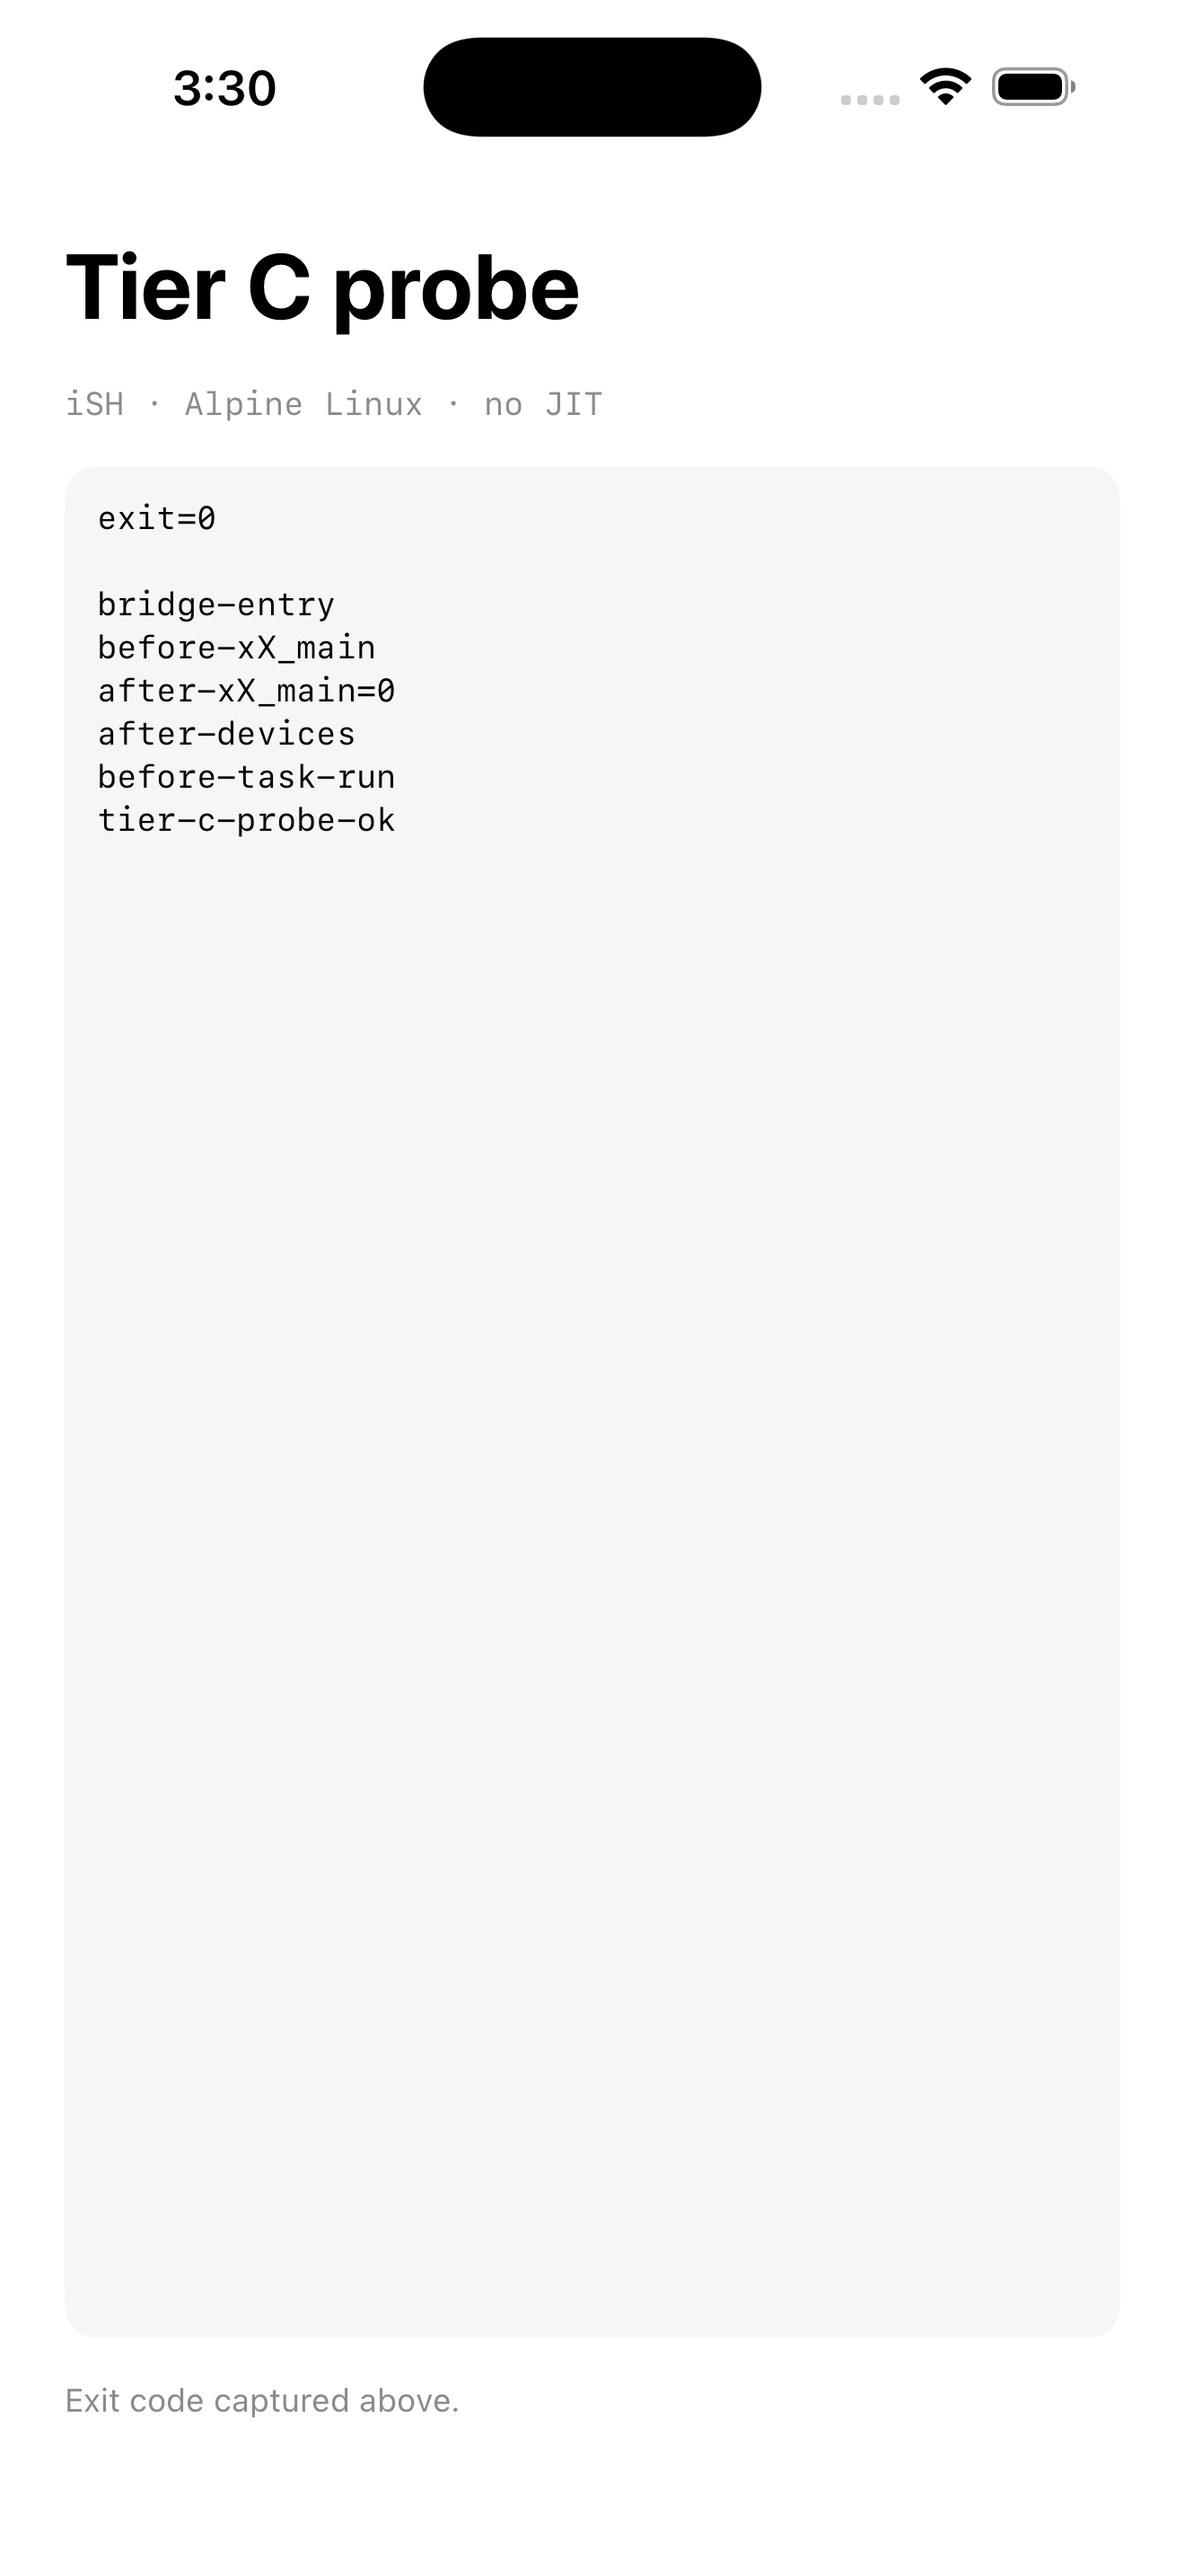
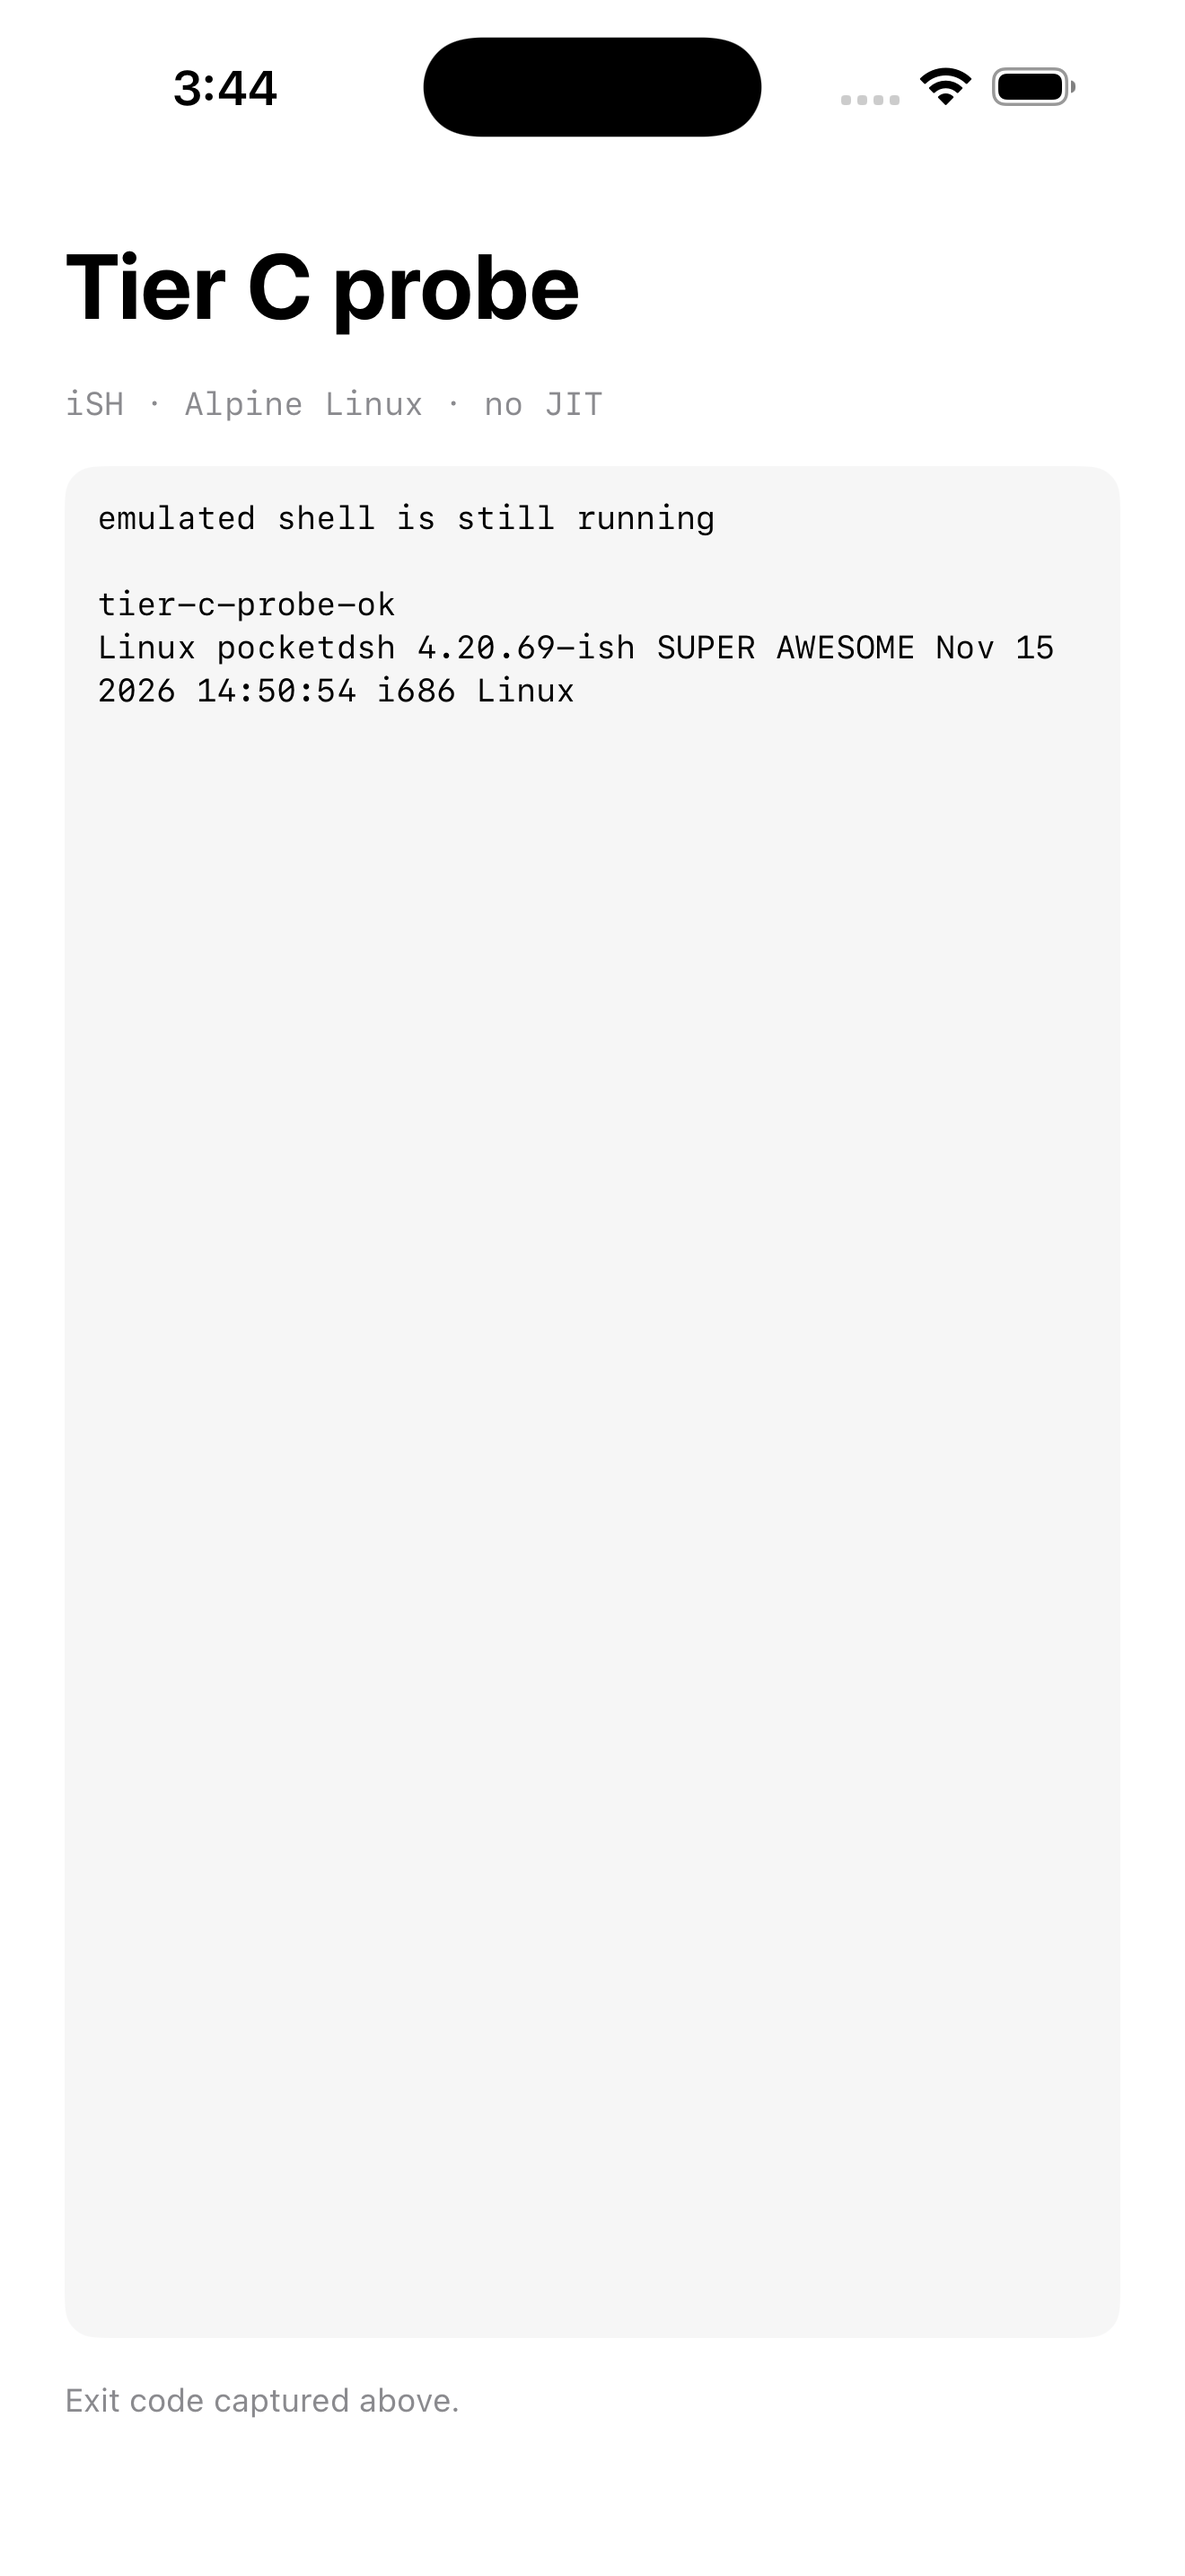
docs: update Tier C probe with visible Linux output [skip ci]

Changed region(s): [[0.0932, 0.1862, 0.3727, 0.3414], [0.4038, 0.2483, 0.497, 0.2793], [0.1864, 0.031, 0.2174, 0.0621]]

diff --git a/docs/TIER-C.md b/docs/TIER-C.md
@@ -74,7 +74,7 @@ Linux pocketdsh 4.20.69-ish SUPER AWESOME ... i686 Linux
 
 ![Tier C probe](tierc/tierc-probe.png)
 
-已知问题：一次性 iSH 任务结束后，probe UI 会退出前台；需要先隔离 emulated task 的生命周期/清理，才能接入主 App。主 App 目前仍未链接 iSH，Tier C 仍不可用。
+已知问题：emulated shell 在命令输出后仍保持运行，probe 使用 3 秒观察窗口读取输出。接入主 App 前需要实现持久 shell 的命令/退出协议，不能把 probe 的固定等待窗口当成正式工具。主 App 目前仍未链接 iSH，Tier C 仍不可用。
 
 ## 尚未完成
 
